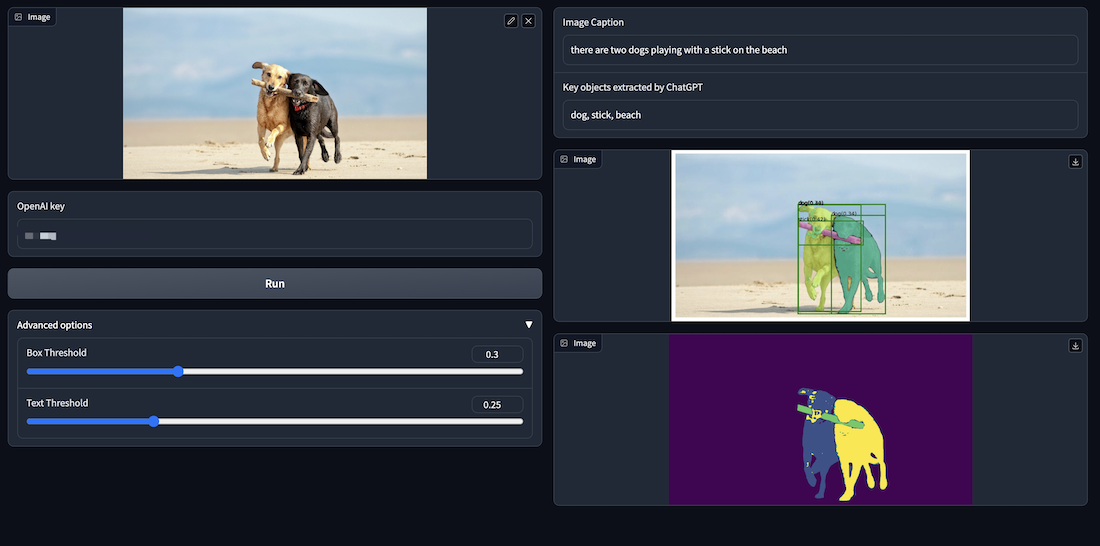
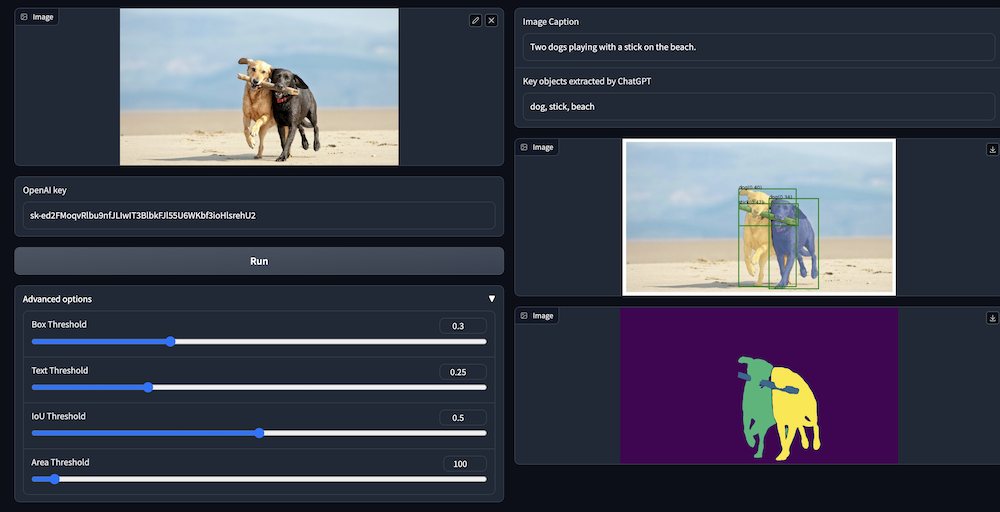
[demo] Add NMS and remove_small_region for gradio_auto_label

Changed region(s): [[0.0, 0.0, 1.0, 1.0]]

diff --git a/gradio_auto_label.py b/gradio_auto_label.py
@@ -6,6 +6,7 @@ import copy
 
 import numpy as np
 import torch
+import torchvision
 from PIL import Image, ImageDraw, ImageFont
 import openai
 # Grounding DINO
@@ -17,6 +18,7 @@ from GroundingDINO.groundingdino.util.utils import clean_state_dict, get_phrases
 from transformers import BlipProcessor, BlipForConditionalGeneration
 # segment anything
 from segment_anything import build_sam, SamPredictor 
+from segment_anything.utils.amg import remove_small_regions
 import cv2
 import numpy as np
 import matplotlib.pyplot as plt
@@ -139,14 +141,16 @@ def get_grounding_output(model, image, caption, box_threshold, text_threshold, w
     tokenized = tokenlizer(caption)
     # build pred
     pred_phrases = []
+    scores = []
     for logit, box in zip(logits_filt, boxes_filt):
         pred_phrase = get_phrases_from_posmap(logit > text_threshold, tokenized, tokenlizer)
         if with_logits:
             pred_phrases.append(pred_phrase + f"({str(logit.max().item())[:4]})")
         else:
             pred_phrases.append(pred_phrase)
+        scores.append(logit.max().item())
 
-    return boxes_filt, pred_phrases
+    return boxes_filt, torch.Tensor(scores), pred_phrases
 
 def show_mask(mask, ax, random_color=False):
     if random_color:
@@ -230,8 +234,30 @@ def generate_tags(caption, split=',', max_tokens=100, model="gpt-3.5-turbo", ope
     tags = reply.split(':')[-1].strip()
     return tags
 
+def check_caption(caption, pred_phrases, max_tokens=100, model="gpt-3.5-turbo"):
+    object_list = [obj.split('(')[0] for obj in pred_phrases]
+    object_num = []
+    for obj in set(object_list):
+        object_num.append(f'{object_list.count(obj)} {obj}')
+    object_num = ', '.join(object_num)
+    print(f"Correct object number: {object_num}")
 
-def run_grounded_sam(image_path, openai_key, box_threshold, text_threshold):
+    prompt = [
+        {
+            'role': 'system',
+            'content': 'Revise the number in the caption if it is wrong. ' + \
+                       f'Caption: {caption}. ' + \
+                       f'True object number: {object_num}. ' + \
+                       'Only give the revised caption: '
+        }
+    ]
+    response = openai.ChatCompletion.create(model=model, messages=prompt, temperature=0.6, max_tokens=max_tokens)
+    reply = response['choices'][0]['message']['content']
+    # sometimes return with "Caption: xxx, xxx, xxx"
+    caption = reply.split(':')[-1].strip()
+    return caption
+
+def run_grounded_sam(image_path, openai_key, box_threshold, text_threshold, iou_threshold, area_threshold):
     assert openai_key, 'Openai key is not found!'
 
     # make dir
@@ -251,7 +277,7 @@ def run_grounded_sam(image_path, openai_key, box_threshold, text_threshold):
     tags = generate_tags(caption, split=split, openai_key=openai_key)
 
     # run grounding dino model
-    boxes_filt, pred_phrases = get_grounding_output(
+    boxes_filt, scores, pred_phrases = get_grounding_output(
         model, image, tags, box_threshold, text_threshold, device=device
     )
 
@@ -269,6 +295,15 @@ def run_grounded_sam(image_path, openai_key, box_threshold, text_threshold):
         boxes_filt[i][2:] += boxes_filt[i][:2]
 
     boxes_filt = boxes_filt.cpu()
+    # use NMS to handle overlapped boxes
+    print(f"Before NMS: {boxes_filt.shape[0]} boxes")
+    nms_idx = torchvision.ops.nms(boxes_filt, scores, iou_threshold).numpy().tolist()
+    boxes_filt = boxes_filt[nms_idx]
+    pred_phrases = [pred_phrases[idx] for idx in nms_idx]
+    print(f"After NMS: {boxes_filt.shape[0]} boxes")
+    caption = check_caption(caption, pred_phrases)
+    print(f"Revise caption with number: {caption}")
+
     transformed_boxes = predictor.transform.apply_boxes_torch(boxes_filt, image.shape[:2])
 
     masks, _, _ = predictor.predict_torch(
@@ -277,9 +312,17 @@ def run_grounded_sam(image_path, openai_key, box_threshold, text_threshold):
         boxes = transformed_boxes,
         multimask_output = False,
     )
+    # area threshold: remove the mask when area < area_thresh (in pixels)
+    new_masks = []
+    for mask in masks:
+        # reshape to be used in remove_small_regions()
+        mask = mask.cpu().numpy().squeeze()
+        mask, _ = remove_small_regions(mask, area_threshold, mode="holes")
+        mask, _ = remove_small_regions(mask, area_threshold, mode="islands")
+        new_masks.append(torch.as_tensor(mask).unsqueeze(0))
 
-        # masks: [1, 1, 512, 512]
-
+    masks = torch.stack(new_masks, dim=0)
+    # masks: [1, 1, 512, 512]
     assert sam_checkpoint, 'sam_checkpoint is not found!'
 
     # draw output image
@@ -322,6 +365,12 @@ if __name__ == "__main__":
                     text_threshold = gr.Slider(
                         label="Text Threshold", minimum=0.0, maximum=1.0, value=0.25, step=0.001
                     )
+                    iou_threshold = gr.Slider(
+                        label="IoU Threshold", minimum=0.0, maximum=1.0, value=0.5, step=0.001
+                    )
+                    area_threshold = gr.Slider(
+                        label="Area Threshold", minimum=0.0, maximum=2500, value=100, step=10
+                    )
 
             with gr.Column():
                 image_caption = gr.Textbox(label="Image Caption")
@@ -336,7 +385,8 @@ if __name__ == "__main__":
 
 
         run_button.click(fn=run_grounded_sam, inputs=[
-                        input_image, openai_key, box_threshold, text_threshold], outputs=[gallery, mask_gallary, image_caption, identified_labels])
+                        input_image, openai_key, box_threshold, text_threshold, iou_threshold, area_threshold], 
+                        outputs=[gallery, mask_gallary, image_caption, identified_labels])
 
 
     block.launch(server_name='0.0.0.0', server_port=7589, debug=args.debug, share=args.share)
